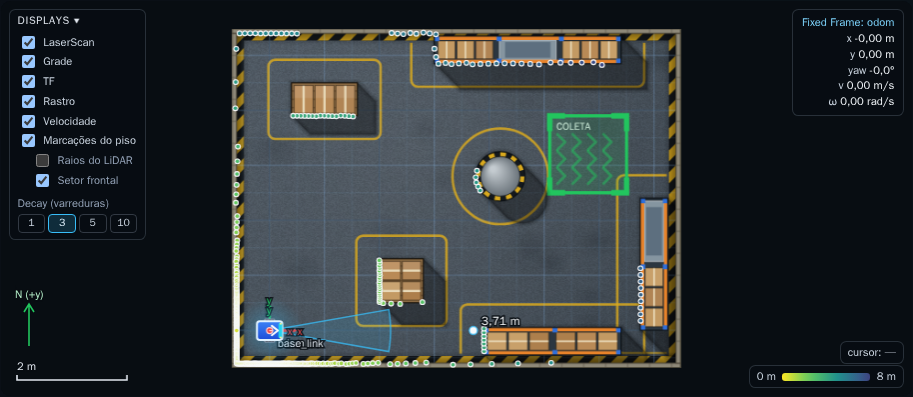
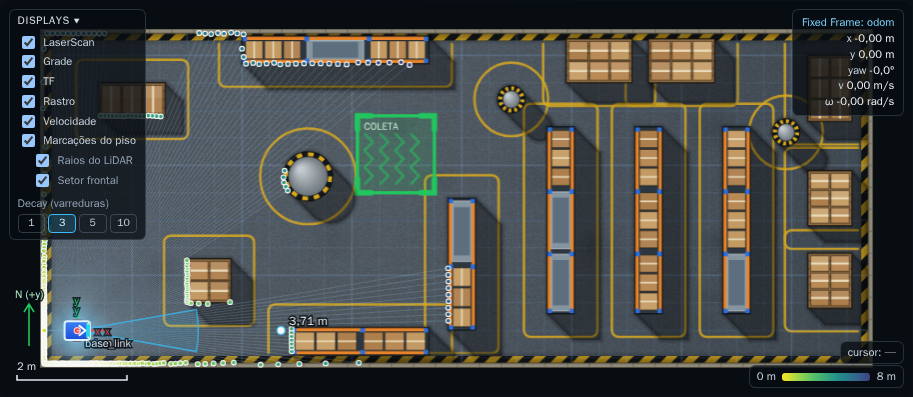
Mapa mais largo, botão de resetar o robô, LiDAR ligado por padrão e foco nos campos de resposta

diff --git a/apps/web/src/App.tsx b/apps/web/src/App.tsx
@@ -9,6 +9,7 @@ import {
   getMap,
   getMission,
   getSession,
+  resetRobotPose,
   restartSession,
   saveProgress,
   startSession,
@@ -89,6 +90,7 @@ export default function App() {
   const [follow, setFollow] = useState(false);
   const [resetToken, setResetToken] = useState(0);
   const [clearTrailToken, setClearTrailToken] = useState(0);
+  const [resettingRobot, setResettingRobot] = useState(false);
   const [terminalState, setTerminalState] = useState<TerminalState | null>(null);
   const [insertNotice, setInsertNotice] = useState("");
   const [lastCommand, setLastCommand] = useState<TerminalCommand | null>(null);
@@ -355,6 +357,21 @@ export default function App() {
     setInsertNotice("");
     terminalRef.current?.insert(command);
     terminalRef.current?.focus();
+  }
+
+  async function handleResetRobot() {
+    if (resettingRobot) {
+      return;
+    }
+    setResettingRobot(true);
+    const done = await resetRobotPose();
+    if (done) {
+      setClearTrailToken((value) => value + 1);
+      setNotice("");
+    } else {
+      setNotice("Não foi possível resetar o robô. Tente de novo.");
+    }
+    setResettingRobot(false);
   }
 
   function handleInterrupt() {
@@ -670,7 +687,15 @@ export default function App() {
       {session.state === "ready" ? (
         <main
           className="workspace mission-workspace"
-          onClick={() => terminalRef.current?.focus()}
+          onClick={(event) => {
+            if (
+              event.target instanceof HTMLElement &&
+              event.target.closest("input, textarea, select, a") !== null
+            ) {
+              return;
+            }
+            terminalRef.current?.focus();
+          }}
         >
           {mission !== null ? (
             <MissionPanel
@@ -771,6 +796,15 @@ export default function App() {
                   data-testid="clear-trail"
                 >
                   Limpar rastro
+                </button>
+                <button
+                  className="button button-ghost button-small"
+                  onClick={handleResetRobot}
+                  disabled={resettingRobot}
+                  data-testid="reset-robot"
+                  title="Leva o robô de volta ao ponto de partida"
+                >
+                  Resetar robô
                 </button>
                 <button
                   className={`button button-small ${showLidar ? "button-secondary" : "button-ghost"}`}

diff --git a/tests/e2e/viewer.spec.ts b/tests/e2e/viewer.spec.ts
@@ -1,6 +1,10 @@
 import { expect, test, type Page } from "@playwright/test";
 
 import {
+  expectDone,
+  expectTask,
+  goNext,
+  insertAndRun,
   robotPose,
   runCommand,
   startSession,
@@ -100,4 +104,43 @@ test("visor: camadas, câmera, rastro e leitura ao vivo", async ({ page }) => {
     "data-prompt",
     "true"
   );
+});
+
+test("raios do LiDAR ligados por padrão e botão de resetar o robô", async ({ page }) => {
+  await startSession(page);
+  await expect(page.getByTestId("layer-rays")).toBeChecked();
+
+  await runCommand(page, twist(30, 0.3, 0));
+  await waitStopped(page);
+  expect((await robotPose(page)).x).toBeGreaterThan(0.5);
+
+  await page.getByTestId("reset-robot").click();
+  await expect
+    .poll(async () => {
+      const pose = await robotPose(page);
+      return Math.hypot(pose.x, pose.y);
+    }, { timeout: 15_000 })
+    .toBeLessThan(0.1);
+  await expect
+    .poll(async () => Math.abs((await robotPose(page)).yaw), { timeout: 5_000 })
+    .toBeLessThan(0.1);
+});
+
+test("campo de resposta do curso mantém o foco ao clicar", async ({ page }) => {
+  await startSession(page);
+  await expectTask(page, "terminal-pwd");
+  await insertAndRun(page, page.getByTestId("task-card"));
+  await expectDone(page);
+  await goNext(page);
+  await expectTask(page, "terminal-ls-ros");
+  await runCommand(page, "ls /opt/ros");
+  await expectDone(page);
+  await goNext(page);
+  await expectTask(page, "terminal-distro");
+
+  const input = page.getByTestId("answer-input");
+  await input.click();
+  await page.keyboard.type("jazzy", { delay: 40 });
+  await expect(input).toBeFocused();
+  await expect(input).toHaveValue("jazzy");
 });

diff --git a/apps/web/src/lib/api.ts b/apps/web/src/lib/api.ts
@@ -80,6 +80,18 @@ export async function touchSession(): Promise<void> {
   });
 }
 
+export async function resetRobotPose(): Promise<boolean> {
+  try {
+    const response = await fetch("/api/session/reset-pose", {
+      method: "POST",
+      credentials: "same-origin"
+    });
+    return response.ok;
+  } catch {
+    return false;
+  }
+}
+
 export async function saveProgress(progress: MissionProgress): Promise<void> {
   await fetch("/api/session/progress", {
     method: "PUT",

diff --git a/apps/web/src/viewer/state.ts b/apps/web/src/viewer/state.ts
@@ -22,7 +22,7 @@ export const defaultLayers: Layers = {
   trail: true,
   velocity: true,
   markings: true,
-  rays: false,
+  rays: true,
   sector: true
 };
 

diff --git a/lab/image/agent/launchpad_agent/app.py b/lab/image/agent/launchpad_agent/app.py
@@ -1,6 +1,7 @@
 import asyncio
 import hmac
 import json
+import math
 import os
 import signal
 
@@ -100,6 +101,43 @@ class AgentApp:
                 return web.json_response({"error": str(exc)}, status=503)
         return web.json_response(self._map)
 
+    async def _load_map(self):
+        if self._map is None:
+            with open(self.settings.map_file, "r", encoding="utf-8") as handle:
+                self._map = json.load(handle)
+        return self._map
+
+    async def reset_pose(self, request):
+        if not self._authorized(request):
+            return web.json_response({"error": "unauthorized"}, status=403)
+        if not self.ros.ready():
+            return web.json_response({"error": "simulator not ready"}, status=503)
+        if os.environ.get("SIM_BACKEND", "gazebo") == "fast":
+            self.ros.publish_reset()
+            return web.json_response({"ok": True})
+        try:
+            data = await self._load_map()
+            spawn = data["spawn"]
+            half = float(spawn.get("yaw", 0.0)) / 2.0
+            pose = (
+                'name: "launchpad_robot" '
+                f'position: {{x: {spawn["x"]}, y: {spawn["y"]}, z: {spawn["z"]}}} '
+                f'orientation: {{z: {math.sin(half)}, w: {math.cos(half)}}}'
+            )
+            process = await asyncio.create_subprocess_exec(
+                "gz", "service", "-s", f'/world/{data["world"]}/set_pose',
+                "--reqtype", "gz.msgs.Pose", "--reptype", "gz.msgs.Boolean",
+                "--timeout", "3000", "--req", pose,
+                stdout=asyncio.subprocess.DEVNULL,
+                stderr=asyncio.subprocess.DEVNULL,
+            )
+            code = await asyncio.wait_for(process.wait(), timeout=6)
+        except (OSError, KeyError, asyncio.TimeoutError):
+            return web.json_response({"error": "reset failed"}, status=503)
+        if code != 0:
+            return web.json_response({"error": "reset failed"}, status=503)
+        return web.json_response({"ok": True})
+
     async def health(self, request):
         return web.json_response({"ok": True})
 
@@ -191,6 +229,7 @@ def create_app(settings):
     app.router.add_get("/health", agent.health)
     app.router.add_get("/state", agent.state)
     app.router.add_get("/map", agent.map)
+    app.router.add_post("/reset-pose", agent.reset_pose)
     app.router.add_get("/terminal", agent.terminal)
     app.router.add_get("/telemetry", agent.telemetry)
     app.on_startup.append(agent.on_startup)

diff --git a/lab/ros_ws/src/launchpad_sim/launchpad_sim/fastsim.py b/lab/ros_ws/src/launchpad_sim/launchpad_sim/fastsim.py
@@ -10,6 +10,7 @@ from rclpy.parameter import Parameter
 from rclpy.time import Time
 from rosgraph_msgs.msg import Clock
 from sensor_msgs.msg import LaserScan
+from std_msgs.msg import Empty
 
 from launchpad_sim.cmd_vel_watchdog import CmdVelWatchdog
 from launchpad_sim.fastsim_core import (
@@ -35,12 +36,12 @@ class FastSim(Node):
         if not map_file:
             raise ValueError("map_file parameter is required")
         self.world = FastWorld(load_map(map_file))
-        self.robot = FastRobot(
-            self.world,
+        self.spawn = (
             float(self.get_parameter("spawn_x").value),
             float(self.get_parameter("spawn_y").value),
             float(self.get_parameter("spawn_yaw").value),
         )
+        self.robot = FastRobot(self.world, *self.spawn)
         rate = float(self.get_parameter("update_rate_hz").value)
         self.ticks = 0
         self.watchdog = None
@@ -53,11 +54,19 @@ class FastSim(Node):
         self.odom_publisher = self.create_publisher(Odometry, "/odom", 10)
         self.scan_publisher = self.create_publisher(LaserScan, "/scan", 10)
         self.clock_publisher = self.create_publisher(Clock, "/clock", 10)
+        self.create_subscription(
+            Empty, "/launchpad/_reset_pose", self.on_reset, 1
+        )
         self.create_timer(1.0 / rate, self.on_tick)
         self.get_logger().info(
             f"fastsim at {rate:.0f} Hz with {len(self.world.boxes)} boxes "
             f"and {len(self.world.circles)} cylinders"
         )
+
+    def on_reset(self, message):
+        self.command_linear = 0.0
+        self.command_angular = 0.0
+        self.robot.reset(*self.spawn)
 
     def publish(self, message):
         self.command_linear = message.linear.x

diff --git a/tests/integration/test_fastsim_core.py b/tests/integration/test_fastsim_core.py
@@ -121,6 +121,25 @@ class FastSimCoreTest(unittest.TestCase):
         drive(robot, 0.35, 0.0, 14.0)
         self.assertTrue(robot.blocked)
 
+    def test_reset_returns_to_spawn_and_stops(self):
+        robot = core.FastRobot(self.world)
+        drive(robot, 0.3, 0.0, 2.0)
+        self.assertGreater(robot.x, 0.3)
+        robot.reset(0.0, 0.0, 0.0)
+        self.assertEqual((robot.x, robot.y, robot.yaw), (0.0, 0.0, 0.0))
+        self.assertEqual((robot.linear, robot.angular), (0.0, 0.0))
+
+    def test_east_structures_do_not_overlap_each_other(self):
+        for item in self.world.boxes:
+            self.assertFalse(
+                self.world.collides(0.0, 0.0, 0.0), "spawn must stay free"
+            )
+
+    def test_wide_floor_has_wall_at_east_end(self):
+        robot = core.FastRobot(self.world, 14.0, 2.0, 0.0)
+        ranges = self.world.scan(robot.x, robot.y, robot.yaw)
+        self.assertLess(float(min(ranges[170:190])), 1.0)
+
 
 if __name__ == "__main__":
     unittest.main()

diff --git a/lab/image/agent/launchpad_agent/ros_bridge.py b/lab/image/agent/launchpad_agent/ros_bridge.py
@@ -8,7 +8,7 @@ from nav_msgs.msg import Odometry
 from rclpy.node import Node
 from rclpy.serialization import deserialize_message
 from sensor_msgs.msg import LaserScan
-from std_msgs.msg import String
+from std_msgs.msg import Empty, String
 
 from launchpad_agent.cdr import parse_odometry, parse_stamp
 
@@ -53,12 +53,18 @@ class RosBridge:
         self._node.create_subscription(
             LaserScan, "/scan", self._on_scan, 10, raw=True
         )
+        self._reset_publisher = self._node.create_publisher(
+            Empty, "/launchpad/_reset_pose", 1
+        )
         self._thread = threading.Thread(
             target=self._spin,
             name="launchpad-ros-bridge",
             daemon=True,
         )
         self._thread.start()
+
+    def publish_reset(self):
+        self._reset_publisher.publish(Empty())
 
     def _spin(self):
         try:

diff --git a/tests/integration/test_mission_content.py b/tests/integration/test_mission_content.py
@@ -152,11 +152,11 @@ class MissionContentTest(unittest.TestCase):
         self.assertEqual(self.tasks["terminal-distro"]["accept"], ["jazzy"])
 
         monitor = (SIM / "launchpad_sim" / "mission_monitor.py").read_text()
-        self.assertIn('super().__init__("mission_monitor")', monitor)
+        self.assertIn('super().__init__("mission_monitor"', monitor)
         self.assertIn("mission_monitor", map(normalize_answer, self.tasks["nos-monitor"]["accept"]))
 
         watchdog = (SIM / "launchpad_sim" / "cmd_vel_watchdog.py").read_text()
-        self.assertIn('super().__init__("cmd_vel_watchdog")', watchdog)
+        self.assertIn('super().__init__("cmd_vel_watchdog"', watchdog)
 
         merge = (SIM / "launchpad_sim" / "odom_merge.py").read_text()
         self.assertIn('super().__init__("odom_merge")', merge)

diff --git a/apps/api/app/main.py b/apps/api/app/main.py
@@ -271,6 +271,20 @@ async def touch_session(request: Request):
     return Response(status_code=204)
 
 
+@app.post("/api/session/reset-pose", status_code=204)
+async def reset_pose(request: Request):
+    cookie = request.cookies.get(settings.cookie_name)
+    if not cookie:
+        raise HTTPException(status_code=409, detail="session not found")
+    try:
+        done = await manager(request).reset_pose(cookie)
+    except Exception:
+        raise HTTPException(status_code=503, detail="reset failed")
+    if not done:
+        raise HTTPException(status_code=409, detail="session not ready")
+    return Response(status_code=204)
+
+
 @app.put("/api/session/progress", status_code=204)
 async def save_progress(request: Request):
     cookie = request.cookies.get(settings.cookie_name)

diff --git a/apps/api/app/sessions.py b/apps/api/app/sessions.py
@@ -273,6 +273,20 @@ class SessionManager:
             self._touch_locked(session)
             return self._lifecycle(session)
 
+    async def reset_pose(self, cookie_id):
+        async with self._lock:
+            session = self._sessions.get(cookie_id)
+            if (
+                session is None
+                or session.state != "ready"
+                or not session.uds_path
+            ):
+                return False
+            self._touch_locked(session)
+            uds_path, token = session.uds_path, session.agent_token
+        await self.agent.reset_pose(uds_path, token)
+        return True
+
     async def save_progress(self, cookie_id, progress):
         if not self._valid_progress(progress):
             return False

diff --git a/apps/api/app/agent_client.py b/apps/api/app/agent_client.py
@@ -30,6 +30,17 @@ class AgentClient:
                     )
                 return await response.json()
 
+    async def reset_pose(self, uds_path, token):
+        async with self._session(uds_path) as client:
+            async with client.post(
+                "http://localhost/reset-pose",
+                headers={"X-Agent-Token": token},
+            ) as response:
+                if response.status != 200:
+                    raise RuntimeError(
+                        f"agent reset returned {response.status}"
+                    )
+
     async def connect(self, uds_path, token, path):
         client = self._session(uds_path)
         websocket = await client.ws_connect(
